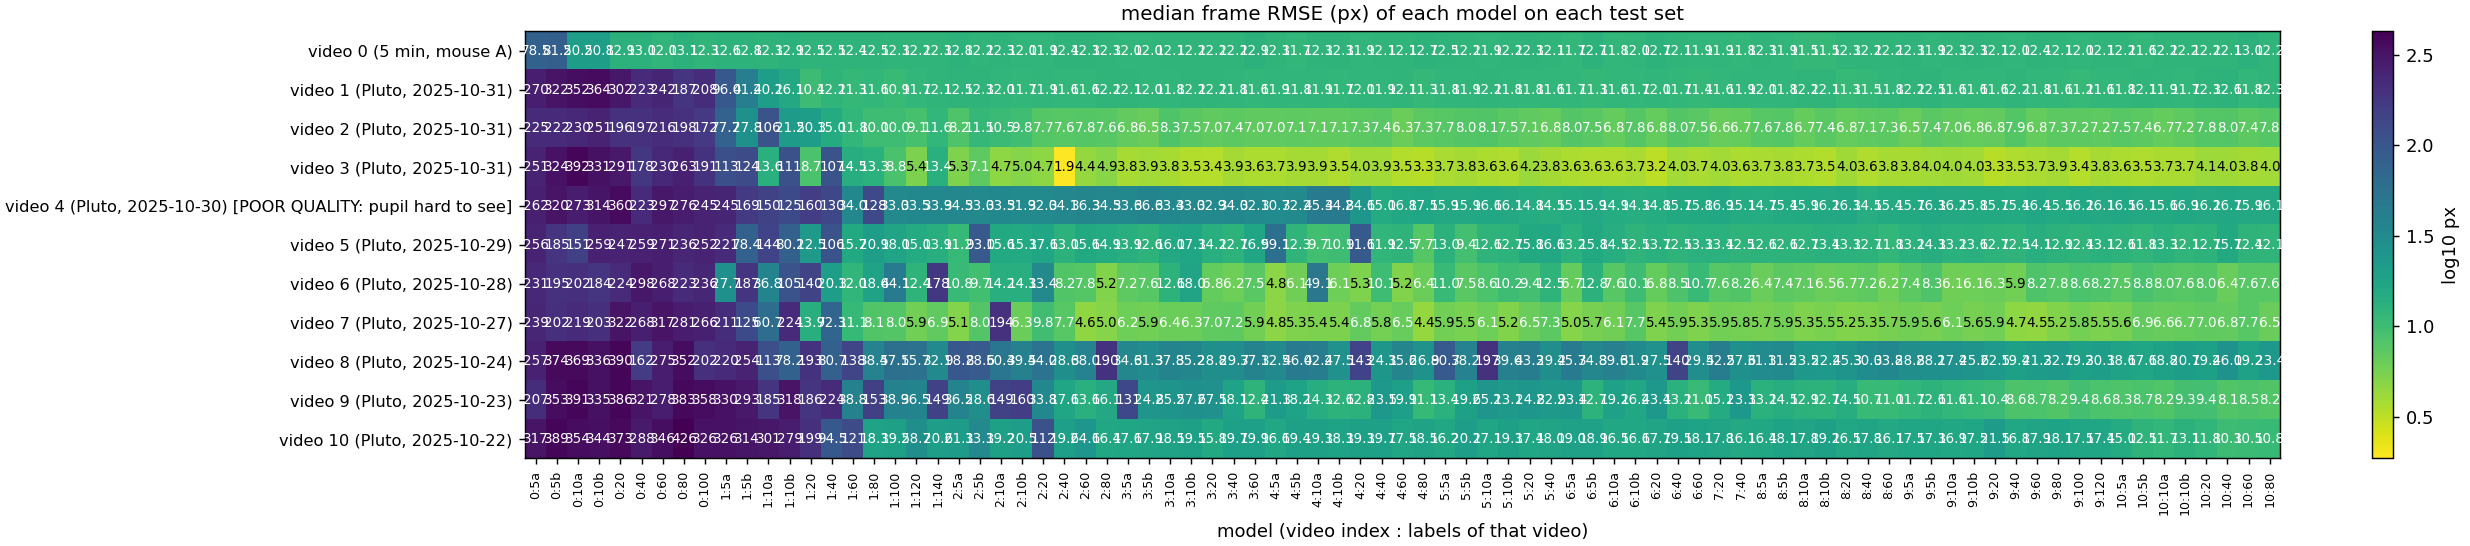
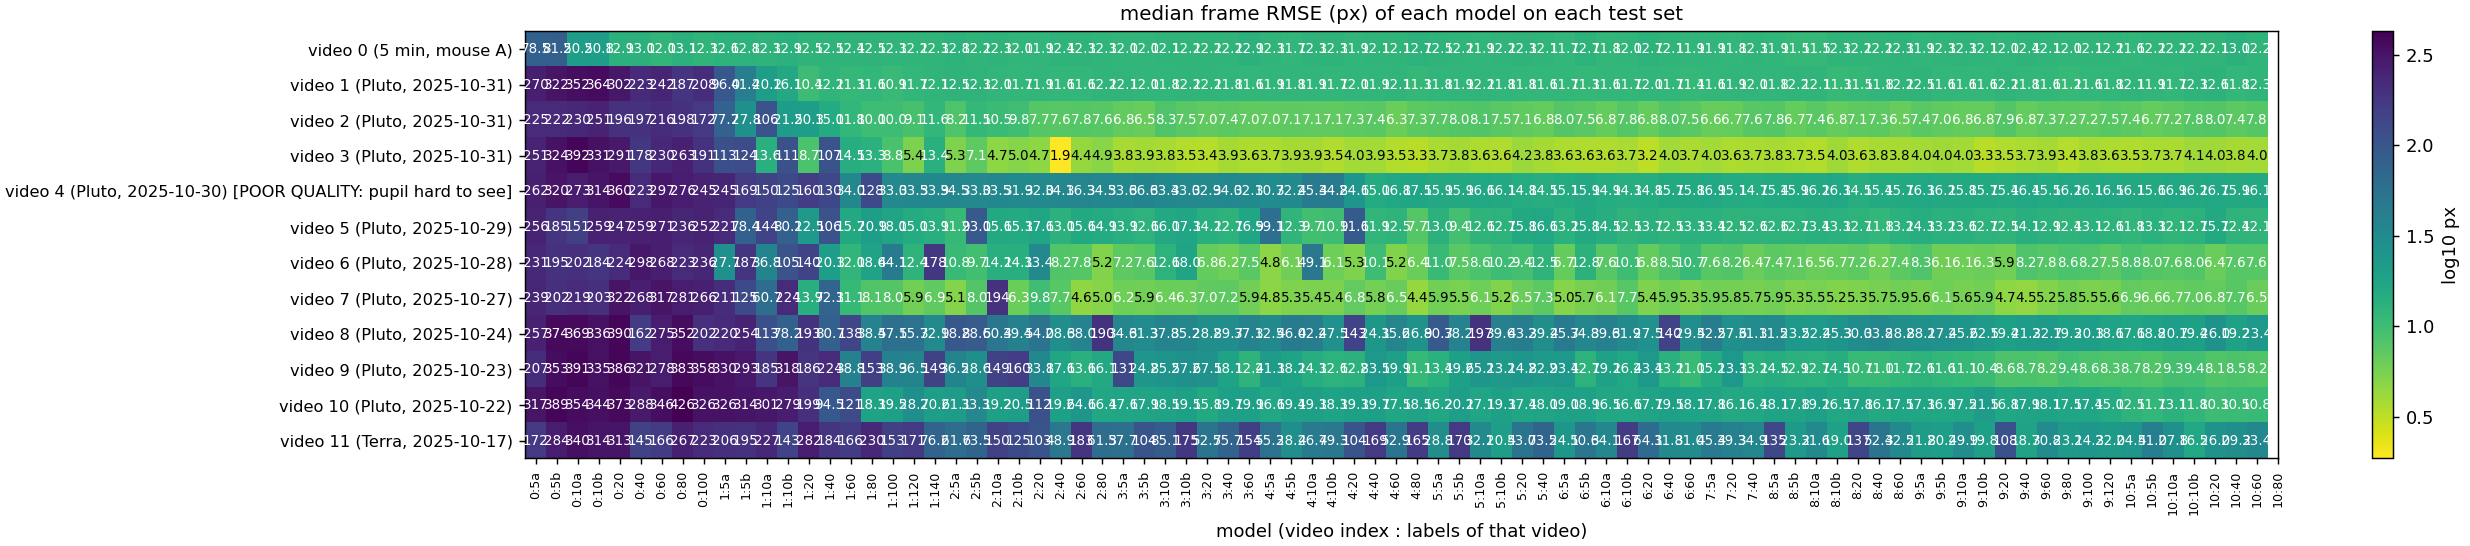
Video 11 (Terra, new mouse): test set labeled and frozen; 0 labels (model 1112) = 25.96 px; all earlier models back-tested on it
Claude-Session: https://claude.ai/code/session_017MK5SWBFFQAu8ejFk1z7fh

diff --git a/README.md b/README.md
@@ -8,7 +8,7 @@ how many human labels are needed, and how few frames must a person correct, befo
 Zhiheng Li (University of Minnesota), with Kaiwen Sheng (Stanford). Raw videos, frames, labels, model weights and
 per-frame predictions stay local; git carries code, documentation and audited aggregate results.
 
-## Status (last updated 2026-10-03 10:05 CDT)
+## Status (last updated 2026-10-03 11:25 CDT)
 
 | what | state |
 |---|---|
@@ -24,7 +24,7 @@ per-frame predictions stay local; git carries code, documentation and audited ag
 | Finished | **video 9** (Pluto, 2025-10-23, v2 line): test50 / val20 / batch01 labeled from model-711 pre-labels; 0 labels (model 711) = 23.41 px, 20 labels = 10.39 px, 40 labels = 8.55 px, 60 labels = 8.67 px (p90 14.8; no gain on the median), 80 labels = 8.20 px (p90 14.8; 4.1% better than 8.55), 100 labels = 9.39 px (p90 15.5), 120 labels = 8.63 px (p90 15.8): the plateau rule fired at 120 (two steps without a gain on 8.20), finished at **80 labels, 8.20 px** (user decision 2026-10-01). Cross-video curves now also show the 5 / 10-label subset models (open markers) |
 | Blink / area analysis | per-video time series in `<video>/results/blink_area_analysis/`; across videos (`v2_new_pupil_top_video_scaling/results/blink_area_consistency.png`): 4-point area better on 7 of 8 test sets; lowest pupil confidence < ~0.2 separates all 16 human closed-eye frames (the production 0.6 cut flags ~half of open frames); area correlates with eye opening in every video |
 | Finished | **video 10** (Pluto, 2025-10-22, the last Pluto video of the sequence): test50 / val20 / batch01 pre-labeled with the video-9 80-label model (1014) and corrected by the labeler (test50: 234 of 400 points moved), test set frozen; 0 labels (model 1014) = 18.13 px (p90 32.0, 8% of frames > 50 px), 20 labels = 11.83 px (p90 27.7, 2% > 50 px), 40 labels = 10.32 px (p90 26.1, 92% of keypoints with confidence >= 0.6), 60 labels = 10.49 px (p90 27.2, 8% > 50 px; no gain over 10.32), 80 labels = 10.76 px (p90 188.7, 12% > 50 px; no gain): the plateau rule fired at 80 (two steps without a gain on 10.32), finished at **40 labels, 10.32 px** (user decision 2026-10-03) |
-| In progress | **video 11** (Terra = mouse C, 2025-10-17, the first video of a new mouse): test50 / val20 / batch01 extracted and pre-labeled with the video-10 40-label model (1112); test set being labeled. Training set of every step = 540 carried labels of videos 0-10 + this video's labels; shuffles 1211, 1212, ... |
+| In progress | **video 11** (Terra = mouse C, 2025-10-17, the first video of a new mouse): test50 / val20 / batch01 pre-labeled with the video-10 40-label model (1112) and corrected by the labeler (test50: 249 of 400 points moved), test set frozen; 0 labels (model 1112) = 25.96 px (p90 80.1, 16% of frames > 50 px); step 1 (20 labels) training. Training set of every step = 540 carried labels of videos 0-10 + this video's labels; shuffles 1211, 1212, ... |
 | Next | Terra units 12-18, one recording day each, newest first |
 
 ## Main results so far (era 3, `v2_new_pupil_top_video_scaling/`)
@@ -44,7 +44,7 @@ Labels needed per video (plateau = two consecutive 20-label steps that improve t
 | 8 | Pluto, 2025-10-24 | 400 | 27.46 / 25.34 / 30.03 / 33.77 px (v2) | 20 labels, 25.3 px (rule fired at 60) |
 | 9 | Pluto, 2025-10-23 | 420 | 23.41 / 10.39 / 8.55 / 8.67 / 8.20 / 9.39 px, 120 labels: 8.63 px (v2) | 80 labels, 8.2 px (rule fired at 120) |
 | 10 | Pluto, 2025-10-22 | 500 | 18.13 / 11.83 / 10.32 / 10.49 / 10.76 px (v2) | 40 labels, 10.3 px (rule fired at 80) |
-| 11 | Terra (mouse C), 2025-10-17 | 540 | (v2, in progress) | – |
+| 11 | Terra (mouse C), 2025-10-17 | 540 | 25.96 px at 0 labels (v2, in progress) | – |
 
 What the numbers say:
 

diff --git a/v2_new_pupil_top_video_scaling/results/README.md b/v2_new_pupil_top_video_scaling/results/README.md
@@ -23,7 +23,7 @@ snapshot with the best validation mAP after the first learning-rate drop (epochs
 | 8 `8_20251024_Pluto_spont1` | mouse B, 19.9 min, 2025-10-24 | 400 (videos 0-3 + 40 of video 4 + 20 of video 5 + 20 of video 6) | convention v2: 27.46 / 25.34 / 30.03 / 33.77 | **20 labels** (rule fired at 60; user decision 2026-09-30) | 25.34 px |
 | 9 `9_20251023_Pluto1` | mouse B, 19.9 min, 2025-10-23 | 420 (videos 0-3 + 40 of video 4 + 20 each of videos 5, 6, 8) | convention v2: 23.41 / 10.39 / 8.55 / 8.67 / 8.20 / 9.39 / 8.63 (120 labels) | **80 labels** (rule fired at 120; user decision 2026-10-01) | 8.20 px |
 | 10 `10_20251022_Pluto1` | mouse B, 19.9 min, 2025-10-22 | 500 (videos 0-3 + 40 of video 4 + 20 each of videos 5, 6, 8 + 80 of video 9) | convention v2: 18.13 / 11.83 / 10.32 / 10.49 / 10.76 | **40 labels** (rule fired at 80; user decision 2026-10-03) | 10.32 px |
-| 11 `11_20251017_Terra_spont_1` | mouse C (Terra), 19.9 min, 2025-10-17 | 540 (videos 0-3 + 40 of video 4 + 20 each of videos 5, 6, 8 + 80 of video 9 + 40 of video 10) | convention v2: test set being labeled | in progress | – |
+| 11 `11_20251017_Terra_spont_1` | mouse C (Terra), 19.9 min, 2025-10-17 | 540 (videos 0-3 + 40 of video 4 + 20 each of videos 5, 6, 8 + 80 of video 9 + 40 of video 10) | convention v2: 25.96 (0 labels) | in progress (step 1 training) | – |
 
 `labels_to_plateau.png` / `labels_to_plateau.csv` (2026-09-30): the plateau point of every video in the sequence as one figure - labels needed (left) and the error at the plateau vs the 0-label error (right); `scripts/plot_labels_to_plateau.py`. The csv is the table above in machine-readable form and is updated when a video finishes.
 

diff --git a/v2_new_pupil_top_video_scaling/11_20251017_Terra_spont_1/results/README.md b/v2_new_pupil_top_video_scaling/11_20251017_Terra_spont_1/results/README.md
@@ -1,0 +1,16 @@
+# Video 11: 2025-10-17 Terra spont 1 (mouse C, 19.9 min; index 11) - labeling convention v2
+
+Label scaling under convention v2, continuing the v2 line after video 10 (finished at 40 labels); the first video of a
+new mouse (Terra). This video had no earlier human labels: test50, val20 and batch01 were pre-labeled with the video-10
+40-label model (1112) and corrected by the labeler on 2026-10-03 (test50: 249 of 400 points moved; val20: 92 of 160;
+batch01: 99 of 160), then the test set was frozen. Training set of every step = the carried labels of the earlier videos
+(videos 0-3: 100 + 100 + 60 + 60; video 4 run 2 batches 1-2: 40; videos 5, 6, 8 batch 1: 20 each; video 9 batches 1-4:
+80; video 10 batches 1-2: 40; video 7 contributed none; 540 in total) + this video's labels; shuffles 1211, 1212, ...
+
+| labels of this video | median | p90 | frames > 50 px | keypoints conf >= 0.6 | pool frames flagged by the jump rule |
+|---|---|---|---|---|---|
+| 0 (video-10 40-label model 1112, applied unchanged) | 25.96 px | 80.1 | 16% | 42% | – |
+
+Back-test of the earlier models on this test set (`../results/cross_video_matrix.csv`): the models of the sequence
+score between 16.5 and 313 px; the other models of video 10 (20 / 60 / 80 labels) give 16.54 / 29.18 / 33.41 px, so
+the 0-label number of a single model is not stable on this new mouse.
